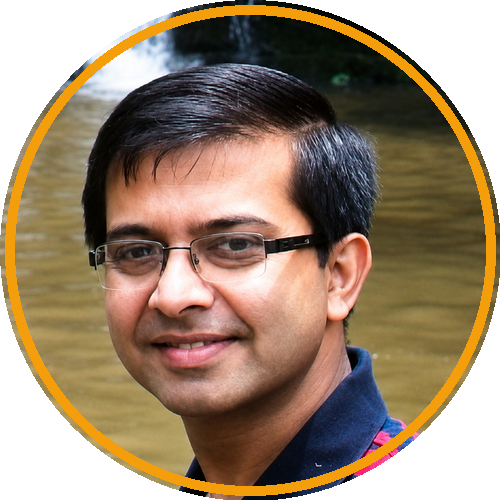
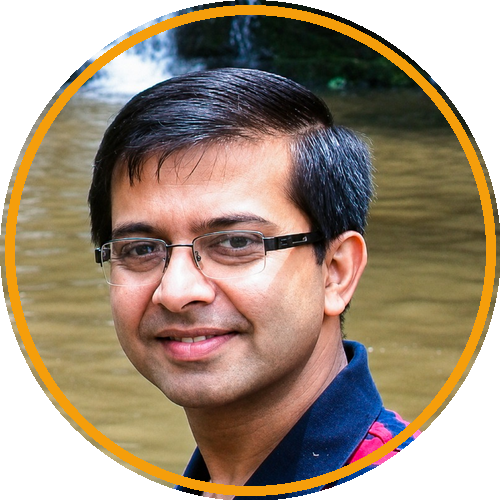
Add Child Policy, Cancellation Policy, Privacy Policy, and Firebase Hosting configuration

diff --git a/index.html b/index.html
@@ -61,7 +61,7 @@
   </script>
 
   <!-- Master Stylesheet -->
-  <link rel="stylesheet" href="assets/css/styles.css?v=3.5.0">
+  <link rel="stylesheet" href="assets/css/styles.css?v=3.6.0">
   <link rel="stylesheet" href="assets/css/chatbot.css">
 </head>
 <body class="public-mode">
@@ -95,7 +95,7 @@
     <div class="header-container">
       <div class="brand-logo-wrap">
         <a href="#home" class="brand-logo-link">
-          <img id="dynHeaderLogo" src="assets/images/official_brand_logo.png" alt="Tour with Somjit" class="brand-logo-img">
+          <img id="dynHeaderLogo" src="assets/images/somjit_profile_avatar.png" alt="Tour with Somjit" class="brand-logo-img">
           <div class="brand-text-block">
             <span class="brand-title">Tour with Somjit</span>
             <span class="brand-subtitle">সোমজিৎ ভট্টাচার্য</span>
@@ -118,7 +118,7 @@
   <!-- Mobile Nav Drawer -->
   <div id="mobileNavDrawer" class="mobile-nav-drawer">
     <div class="mobile-drawer-header">
-      <img id="dynDrawerLogo" src="assets/images/brand_logo_redesign.png" alt="Tour with Somjit" style="height:36px; object-fit:contain;">
+      <img id="dynDrawerLogo" src="assets/images/somjit_profile_avatar.png" alt="Tour with Somjit" style="height:36px; object-fit:contain;">
       <button id="closeMobileNavBtn" class="drawer-close-btn">&times;</button>
     </div>
     <ul class="mobile-nav-list">
@@ -333,7 +333,7 @@
       <div class="footer-grid">
         <!-- Brand Info -->
         <div class="footer-col brand">
-          <img id="dynFooterLogo" src="assets/images/brand_logo_redesign.png" alt="Tour with Somjit" style="height:46px; margin-bottom:14px;">
+          <img id="dynFooterLogo" src="assets/images/somjit_profile_avatar.png" alt="Tour with Somjit" style="height:46px; margin-bottom:14px;">
           <p style="font-size:1.02rem; color:#cbd5e1; line-height:1.7;">
             সোমজিৎ ভট্টাচার্য-এর আন্তরিক পরিচালনায় নিরাপদ, আরামদায়ক ও ঘরোয়া বাংলা গ্রুপ ট্যুর। প্রতিটি সফরকে পারিবারিক স্নেহ ও সুরক্ষায় সাজানো আমাদের অঙ্গীকার।
           </p>
@@ -976,8 +976,8 @@
   </div>
 
   <!-- JavaScript Engines -->
-  <script src="assets/js/data.js?v=3.5.0"></script>
-  <script src="assets/js/app.js?v=3.5.0"></script>
+  <script src="assets/js/data.js?v=3.6.0"></script>
+  <script src="assets/js/app.js?v=3.6.0"></script>
   <script src="assets/js/chatbot.js"></script>
 </body>
 </html>

diff --git a/assets/js/data.js b/assets/js/data.js
@@ -2,10 +2,10 @@
 window.TWS_SITE_DATA = {
   "updatedAt": "2026-08-27T04:00:00.000Z",
   "branding": {
-    "logo_url": "assets/images/official_brand_logo.png",
+    "logo_url": "assets/images/somjit_profile_avatar.png",
     "hero_bg": "assets/images/hero_scenic_bg.jpg",
     "hero_host_cutout": "assets/images/somjit_hero_cutout.png",
-    "host_circle_avatar": "assets/images/official_brand_logo.png",
+    "host_circle_avatar": "assets/images/somjit_profile_avatar.png",
     "tagline": "Explore More. Experience More."
   },
   "general": {
